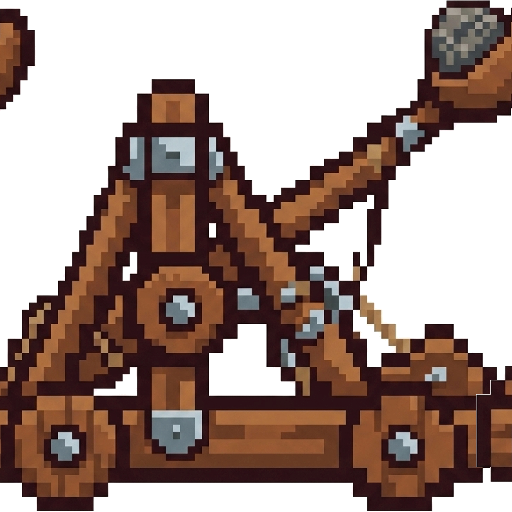
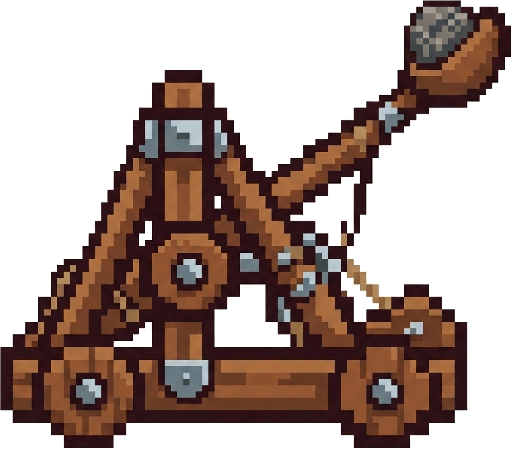
test

diff --git a/assets/process-png.js b/assets/process-png.js
@@ -97,8 +97,14 @@ async function processImage(filePath) {
       return;
     }
 
-    const scale = TARGET_SIZE / bounds.h;
+    // Scale so the character's longer edge becomes TARGET_SIZE, preserving
+    // aspect ratio. The output is sized to the character itself (no padding to
+    // a square), so nothing is clipped and there are no empty margins. Using
+    // only the height (the old behaviour) overflowed horizontally for wide
+    // characters, producing a negative offset that clipped the left/right edges.
+    const scale = Math.min(TARGET_SIZE / bounds.w, TARGET_SIZE / bounds.h);
     const newW = Math.round(bounds.w * scale);
+    const newH = Math.round(bounds.h * scale);
 
     const croppedW = Math.min(bounds.w, width - bounds.x);
     const croppedH = Math.min(bounds.h, height - bounds.y);
@@ -112,7 +118,7 @@ async function processImage(filePath) {
       })
       .resize({
         width: newW,
-        height: TARGET_SIZE,
+        height: newH,
         fit: 'contain',
         kernel: 'nearest'
       })
@@ -123,34 +129,31 @@ async function processImage(filePath) {
     const resizedW = croppedBuffer.info.width;
     const resizedH = croppedBuffer.info.height;
 
-    const canvas = Buffer.alloc(TARGET_SIZE * TARGET_SIZE * 4, 0);
-
-    const offsetX = Math.floor((TARGET_SIZE - resizedW) / 2);
-    const offsetY = Math.floor((TARGET_SIZE - resizedH) / 2);
+    // Canvas is sized exactly to the resized character: no centre offset, no
+    // square padding, so no clipping and no empty margins.
+    const canvas = Buffer.alloc(resizedW * resizedH * 4, 0);
 
     for (let y = 0; y < resizedH; y++) {
       for (let x = 0; x < resizedW; x++) {
-        const srcIdx = (y * resizedW + x) * 4;
-        const dstIdx = ((y + offsetY) * TARGET_SIZE + (x + offsetX)) * 4;
-
-        const r = croppedBuffer.data[srcIdx];
-        const g = croppedBuffer.data[srcIdx + 1];
-        const b = croppedBuffer.data[srcIdx + 2];
+        const idx = (y * resizedW + x) * 4;
+        const r = croppedBuffer.data[idx];
+        const g = croppedBuffer.data[idx + 1];
+        const b = croppedBuffer.data[idx + 2];
 
         if (r < WHITE_THRESHOLD || g < WHITE_THRESHOLD || b < WHITE_THRESHOLD) {
-          canvas[dstIdx] = r;
-          canvas[dstIdx + 1] = g;
-          canvas[dstIdx + 2] = b;
-          canvas[dstIdx + 3] = 255;
+          canvas[idx] = r;
+          canvas[idx + 1] = g;
+          canvas[idx + 2] = b;
+          canvas[idx + 3] = 255;
         }
       }
     }
 
     await sharp(canvas, {
-      raw: { width: TARGET_SIZE, height: TARGET_SIZE, channels: 4 }
+      raw: { width: resizedW, height: resizedH, channels: 4 }
     }).png().toFile(outputPath);
 
-    console.log(`Processed: ${fileName} (char height: ${croppedH} -> ${TARGET_SIZE})`);
+    console.log(`Processed: ${fileName} (char: ${croppedW}x${croppedH} -> ${resizedW}x${resizedH})`);
   } catch (err) {
     console.error(`Error processing ${fileName}:`, err.message);
   }
@@ -162,7 +165,10 @@ async function main() {
     process.exit(1);
   }
 
-  const files = fs.readdirSync(SOURCE_DIR).filter(f => f.endsWith('.png'));
+  // Process specific files if given as CLI args, otherwise the whole folder.
+  const files = process.argv.slice(2).length > 0
+    ? process.argv.slice(2)
+    : fs.readdirSync(SOURCE_DIR).filter(f => f.endsWith('.png'));
 
   if (files.length === 0) {
     console.log('No PNG files found in source directory.');